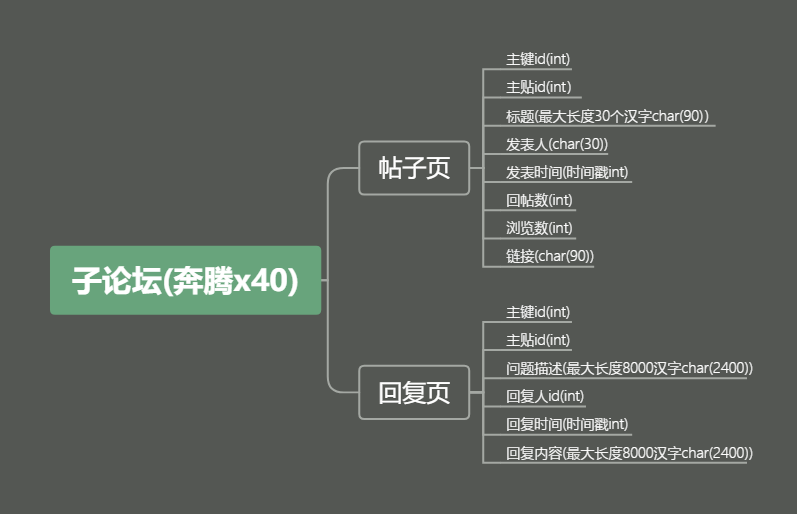
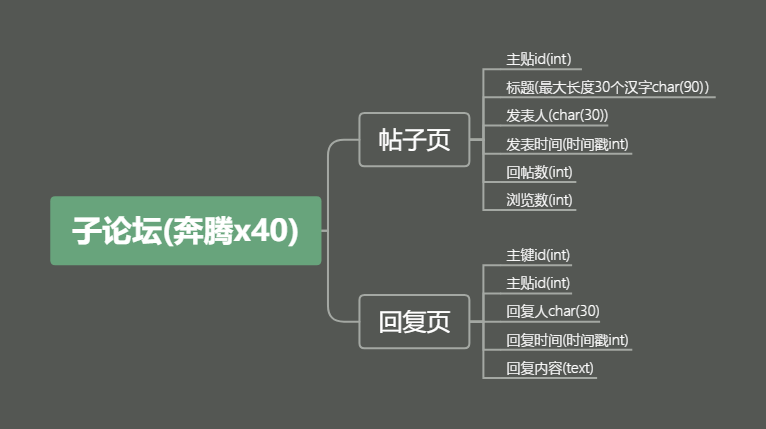
update readme

Changed region(s): [[0.3903, 0.0909, 0.9308, 0.5455], [0.3903, 0.5758, 0.9608, 0.9091], [0.0601, 0.4545, 0.4504, 0.6364]]

diff --git a/readme.md b/readme.md
@@ -28,10 +28,17 @@
 4. 添加chromedriver.exe所在目录到系统环境变量（chromedriver.exe在项目根文件下的script文件夹下)
 5. 修改setting文件数据库连接的配置信息,以及需要开启的线程数量
 6. 创建数据库以及表（以下命令在数据库客户端中运行）
-    1. `create database xcar` 创建数据库
-    2. `use xcar` 切换数据库到xcar
-    3. 创建item表，存放列表页信息
-    4. 创建reply表，存放所有回帖信息
+    1. `create database xcar` 创建数据库
+    2. `use xcar` 切换数据库到xcar
+    3. 创建item表，存放列表页信息
+    ```sql
+    CREATE TABLE `item` (`item_id` int(11) NOT NULL, `title` char(100) DEFAULT NULL,  `poster` char(30) DEFAULT NULL,  `post_time` float DEFAULT NULL,  `replies` int(11) DEFAULT NULL,  `view_count` int(11) DEFAULT NULL,  PRIMARY KEY (`item_id`)) ENGINE=InnoDB DEFAULT CHARSET=utf8;
+    ```
+    4. 创建reply表，存放所有回帖信息
+    ```sql
+    CREATE TABLE `reply` (  `id` int(11) NOT NULL AUTO_INCREMENT,  `item_id` int(11) DEFAULT NULL,  `reply_er` char(30) DEFAULT NULL,  `reply_time` float DEFAULT NULL,  `reply` text,  PRIMARY KEY (`id`)) ENGINE=InnoDB AUTO_INCREMENT=0 DEFAULT CHARSET=utf8;
+    ```
+    
 7. `python main.py` 运行爬虫
 
 ## 进度
